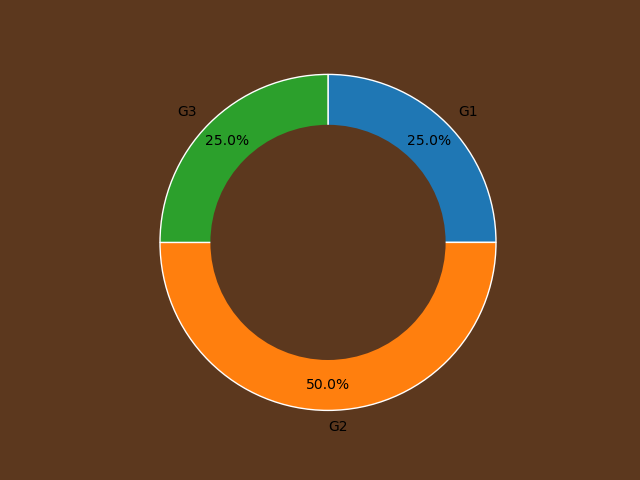
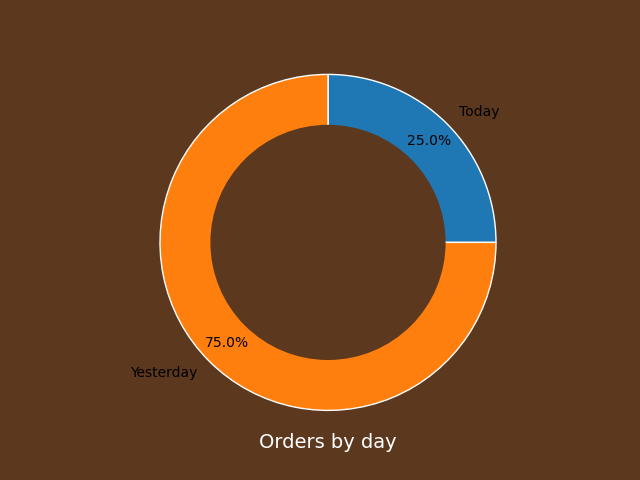
leo
de nada report

diff --git a/main.py b/main.py
@@ -1,3 +1,4 @@
+import matplotlib.pyplot as plt
 import json
 import re
 
@@ -107,9 +108,11 @@ class Main(MDApp):
     user_category = StringProperty("")
     user_type = StringProperty("")
 
-    # overall
+    # overall admin
     total_users = StringProperty("")
     total_orders = StringProperty("")
+    total_main = StringProperty("")
+    yes_day = StringProperty("")
 
     graph = StringProperty("")
     bar = StringProperty("")
@@ -127,9 +130,10 @@ class Main(MDApp):
     def on_start(self):
         Clock.schedule_once(self.keyboard_hooker, .1)
         # self.display_sales()
-        #self.get_users()
-        # self.display_manage()
-        # self.display_main()
+        self.get_users()
+        self.generate_pie_chart()
+        self.display_manage()
+        self.display_main()
         # self.selected_item()
         self.time_updater()
         pass
@@ -204,6 +208,9 @@ class Main(MDApp):
         data = FB.get_main(FB())
 
         if data:
+            no = len(data)
+            self.total_main = str(no)
+
             for i, y in data.items():
                 self.root.ids.food.data.append(
                     {
@@ -213,6 +220,7 @@ class Main(MDApp):
                     }
                 )
         else:
+            self.total_main = "0"
             self.root.ids.food.data.append(
                 {
                     "viewclass": "Nofood",
@@ -248,18 +256,17 @@ class Main(MDApp):
     def search_live(self, text):
         self.root.ids.all.data = {}
         users_data = self.get_user_data()
-        text = text.upper()
         users = users_data["users"]
-        for i, user in enumerate(users):
-            if text in user["username"]:
+
+        for x, y in enumerate(users):
+            if text.lower() in y["username"]:
                 self.nodata = ""
                 self.root.ids.all.data.append(
                     {
                         "viewclass": "Allow",
-                        "name": user["username"],
+                        "name": y["username"],
                     }
                 )
-
             else:
                 self.nodata = "components/no-data-found.png"
 
@@ -296,7 +303,8 @@ class Main(MDApp):
     def count_data(self, ):
         # Count occurrences of 'Info' key
         if self.waiter_list:
-            waiter_count = sum('Info' in user_info for user_dict in self.waiter_list for user_info in user_dict.values())
+            waiter_count = sum(
+                'Info' in user_info for user_dict in self.waiter_list for user_info in user_dict.values())
         else:
             waiter_count = 0
 
@@ -310,14 +318,27 @@ class Main(MDApp):
         self.total_users = str(total)
 
         order_ids = set()
-        if self.orders_list:
-            for order_id, order_info in self.orders_list.items():
+        if self.orders_list[0]:
+            today = self.orders_list[0]
+            for order_id, order_info in today.items():
                 order_ids.add(order_id)
                 data = len(order_ids)
                 self.total_orders = str(data)
 
         else:
             self.total_orders = "0"
+
+        if self.orders_list[1]:
+            yesterday = self.orders_list[1]
+            for idd, info in yesterday.items():
+                order_ids.add(idd)
+                data = len(order_ids)
+                self.yes_day = str(data)
+
+        else:
+            self.yes_day = "0"
+
+        self.generate_pie_chart()
 
     def add_to_order(self, product_name, quantity, price):
         # Check if the product is already in the order
@@ -362,6 +383,10 @@ class Main(MDApp):
         print("caller")
         self.orders.clear()
         self.selected_item()
+        self.admin_list = FB.get_admin(FB())
+        self.orders_list = FB.get_all_orders(FB())
+        self.orders_list = FB.get_all_orders(FB())
+        self.count_data()
 
     def check(self, text):
         if len(text) > 3:
@@ -407,6 +432,52 @@ class Main(MDApp):
         return None
 
     """ 
+                    GRAPH AND CHART
+    
+    """
+
+    def generate_pie_chart(self, ):
+        total = int(self.total_orders) + int(self.yes_day)
+
+        # Calculate the percentages
+        percentage1 = (int(self.total_orders) / total) * 100
+        percentage2 = (int(self.yes_day) / total) * 100
+
+        # Data for the pie chart
+        labels = ["Today", "Yesterday"]
+        values = [percentage1, percentage2]
+
+        # Partial Pie and Donut combination
+        fig, ax = plt.subplots(facecolor='#5C381E')
+        ax.set_facecolor('#5C381E')
+
+        # Set the color of the labels to white
+        label_colors = 'black'
+
+        ax.pie(values, labels=labels, autopct='%1.1f%%', startangle=90, pctdistance=0.85,
+               wedgeprops=dict(width=0.4, edgecolor='w'), textprops=dict(fontsize=10, color=label_colors),
+               counterclock=False)
+
+        # Draw a white circle at the center to create a hole
+        centre_circle = plt.Circle((0, 0), 0.70, fc='#5C381E')
+        fig = plt.gcf()
+        fig.gca().add_artist(centre_circle)
+
+        ax.set_xlabel('Orders by day', fontsize=14)
+        ax.xaxis.label.set_color('white')
+
+        # Equal aspect ratio ensures that pie is drawn as a circle.
+        ax.axis('equal')
+
+        # Save the image
+        plt.savefig("components/pie_chart.png")
+
+    """ 
+                        GRAPH AND CHART
+
+    """
+
+    """ 
     
         CATEGORY SELECTION  FUNCTION
      
@@ -434,9 +505,9 @@ class Main(MDApp):
         pre = self.root.ids.extra
         comp = self.root.ids.fish
 
-        pend.md_bg_color = "white"
-        pre.md_bg_color = "white"
-        comp.md_bg_color = "white"
+        pend.md_bg_color = "#424242"
+        pre.md_bg_color = "#424242"
+        comp.md_bg_color = "#424242"
 
         pend.text_color = "black"
         pre.text_color = "black"
@@ -459,8 +530,8 @@ class Main(MDApp):
         pend = self.root.ids.wai
         pre = self.root.ids.adm
 
-        pend.md_bg_color = "white"
-        pre.md_bg_color = "white"
+        pend.md_bg_color = "#424242"
+        pre.md_bg_color = "#424242"
 
         pend.text_color = "black"
         pre.text_color = "black"

diff --git a/database.py b/database.py
@@ -1,4 +1,4 @@
-from datetime import datetime
+from datetime import datetime, timedelta
 from kivymd.toast import toast
 
 
@@ -165,17 +165,30 @@ class FireBase:
 
                 toast("Order Successful")
 
-    def get_all_orders(self,):
+    def get_all_orders(self, ):
         import firebase_admin
         firebase_admin._apps.clear()
         from firebase_admin import credentials, initialize_app, db
         if not firebase_admin._apps:
             cred = credentials.Certificate("credential/farmzon-abdcb-c4c57249e43b.json")
             initialize_app(cred, {'databaseURL': 'https://farmzon-abdcb.firebaseio.com/'})
-            store = (db.reference("Restaurant").child("Orders").child(self.year()).child(self.month_date()))
-            data = store.get()
+            today = (db.reference("Restaurant").child("Orders").child(self.year()).child(self.month_date()))
+            data1 = today.get()
 
-            return data
+            current_date_obj = datetime.strptime(self.month_date(), "%m_%d")
+
+            # Calculate the previous date
+            previous_date_obj = current_date_obj - timedelta(days=1)
+
+            # Format the previous date as a string in the same format
+            previous_date_str = previous_date_obj.strftime("%m_%d")
+
+            yesterday = (db.reference("Restaurant").child("Orders").child(self.year()).child(previous_date_str))
+            data2 = yesterday.get()
+
+            comp = data1, data2
+
+            return comp
 
     def generate_id(self):
         # Generate a unique order ID based on timestamp and counter
@@ -196,6 +209,7 @@ class FireBase:
         y, m, d = date.strip().split("-")
 
         return f"{m}_{d}"
+
 
 # FireBase.register_order(FireBase(), "lul", [{'product_name': 'john_doe', 'quantity': '1', 'price': '500'}, {'product_name': 'jane_smith', 'quantity': '1', 'price': '500'}, {'product_name': 'bob_jones', 'quantity': '1', 'price': '500'}])
 # FireBase.get_main(FireBase())
